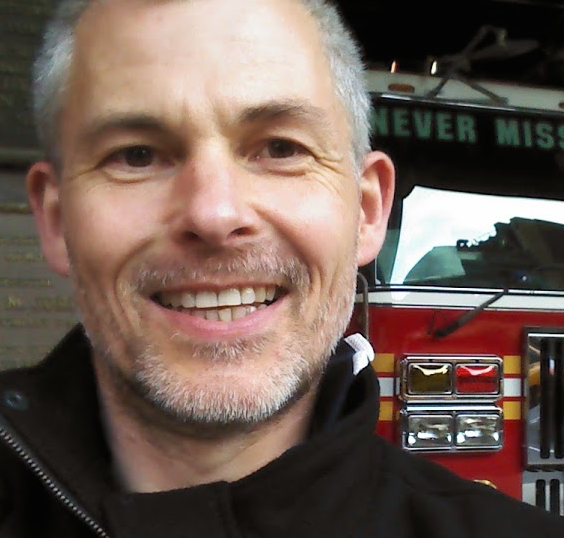
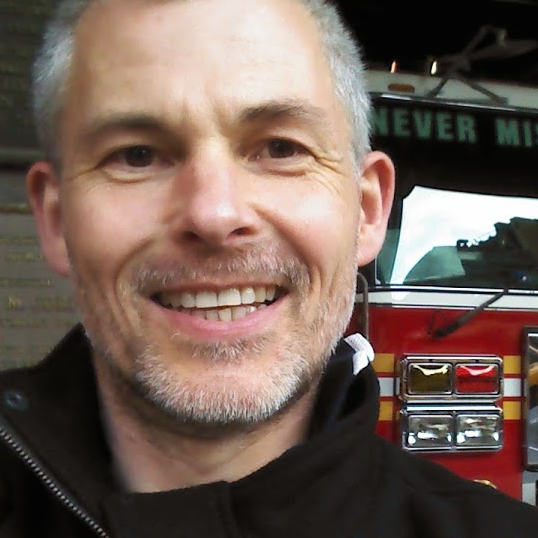
Fixed image sizes

diff --git a/_includes/people.html b/_includes/people.html
@@ -8,8 +8,8 @@
 	<div class="person">
 		<h3>{{ person.firstname }} {{ person.surname }}</h3>
 		<p>{{ person.type }}</p>
-		<div class="portrait rounded">
-			<img class="" src="{{ person.photo }}" alt="{{ person.firstname}} portrait" />
+		<div class="portrait ">
+			<img class="rounded" src="{{ person.photo }}" alt="{{ person.firstname}} portrait" />
 		</div>
 		<p>{{ person.excerpt }}</p>
 		<p><a class="gallery" href="{{ person.url }}index.html #content" data-featherlight-type="ajax">More about {{ person.firstname }}</a></p>

diff --git a/assets/overrides.css b/assets/overrides.css
@@ -406,19 +406,22 @@ input.gsc-input,
     border:1px solid #;
     -webkit-border-radius: 20px;
     -moz-border-radius: 20px;
-    border-radius: 20px; 
+    border-radius: 20px;
 }
 
 .portrait {
-    width: 275px;
-    
-    object-fit: fill;
+    max-width: 100%;
+    overflow: hidden; 
+
     margin-bottom: 10px;
+
 }
 
 div .portrait img {
+        object-fit: cover;
     height: 250px;
     filter: grayscale(100%);
+
 }
 
 /* customized gallery */

diff --git a/_layouts/person.html b/_layouts/person.html
@@ -13,7 +13,7 @@
     	
     	<div class="twelve columns">
     	<h2>{{ page.firstname }} {{ page.surname }}</h2>
-		<div class="alignright portrait rounded">
+		<div class="alignright portrait">
 			<img src="{{ page.photo }}" alt="{{ page.firstname }} portrait" />
 		</div>
 		{{ page.description }}

diff --git a/_people/gregor.md b/_people/gregor.md
@@ -5,11 +5,11 @@ layout: person
 type: Associate
 excerpt: Commercial, process improvement and technology consultant
 description: 
-    <p>Gregor blends cross-industry experience with a strong understanding of business strategy, commercial reality, psychology, operational pressures and practices, process improvement, technology, and supply chain expertise.</p>
+    <p>Gregor blends cross-industry experience with a strong understanding of all aspects of business from strategy to psychology.</p>
 photo: /assets/images/gregor.jpg
 ---
-<p>Gregor draws on 15 years of experience in senior roles across industries and disciplines &mdash; from UK central government departments to an international shipping port, from telecoms to automotive, legal services to professional membership bodies, and many more in between.</p>
-<p>He brings a unique blend of commercial acumen, psychology, and technical expertise across numerous specialisations, and experience in delivering business results through challenging periods of growth, redevelopment, and change. He has worked in commercial, operational, project, and programme delivery capacities across the private and public sectors.</p>
+<p>His experience helps organisations to reduce operational pressure and improve services through process improvement and technology &mdash; whilst acknowledging and respecting commercial realities.</p>
+
 <p>He specialises in:</p>
 <ul>
     <li>designing business solutions to improve organisational capability</li>

diff --git a/_people/sarah.md b/_people/sarah.md
@@ -7,5 +7,5 @@ excerpt: General administration, and a strategic sounding board!
 description: 
     <p>Apart from her admin role, Sarah holds us to account by taking the customer's viewpoint.</p>
     <p>From proof-reading, through user experience to design, she provides the critical friendship we need.</p>
-photo: /assets/images/sarah.jpg
+photo: /assets/images/sarah2.jpg
 ---
